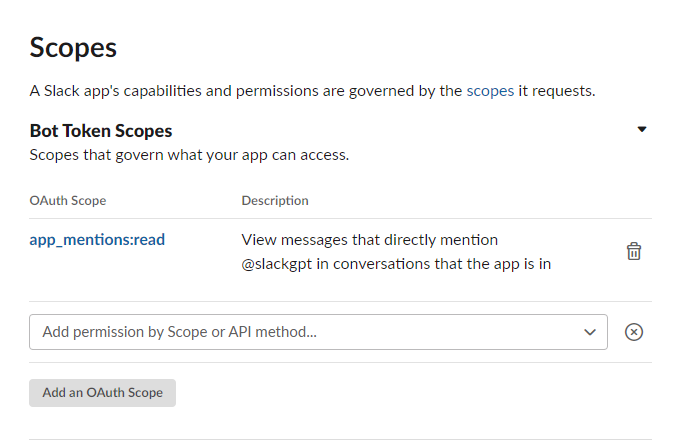
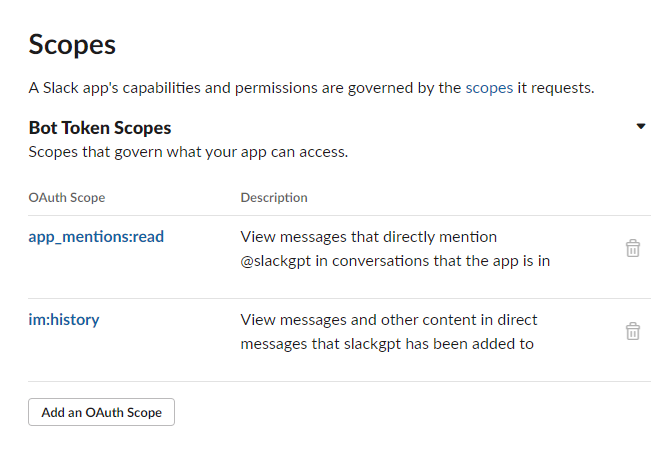
Dms (#28)
* updated config tests

* committing test files

* fixed tests

* fixed tests due to config refactor

* added some tests to middleware app mention event to cover misses

* incorporated dm capabilities

* added middleware test for message event and added codecov

* trying to integrate codecov

* updated the walk-through to include dms

diff --git a/src/slack/middleware_test.go b/src/slack/middleware_test.go
@@ -170,3 +170,135 @@ func TestMiddlewareAppMentionEvent(t *testing.T) {
 		})
 	}
 }
+
+func TestMiddlewareMessageEvent(t *testing.T) {
+	type payload struct {
+		Text string `json:"text"`
+	}
+	x := payload{
+		Text: "we made it",
+	}
+	send, err := json.Marshal(x)
+	assert.NoError(t, err)
+	type args struct {
+		event *socketmode.Event
+	}
+	type expectedResult struct {
+		e error
+	}
+	tests := []struct {
+		name string
+		arg  args
+		want expectedResult
+	}{
+		{
+			name: "nil data",
+			arg: args{
+				&socketmode.Event{
+					Type: socketmode.EventTypeEventsAPI,
+					Data: nil,
+				},
+			},
+			want: expectedResult{errors.New("miss")},
+		},
+		{
+			name: "wrong event type",
+			arg: args{
+				&socketmode.Event{
+					Type: socketmode.EventTypeEventsAPI,
+					Data: slackevents.EventsAPIEvent{
+						Type: "event_callback",
+						InnerEvent: slackevents.EventsAPIInnerEvent{
+							Type: string(slackevents.AppMention),
+						},
+					},
+					Request: &socketmode.Request{
+						Type:           "test",
+						NumConnections: 1,
+						ConnectionInfo: socketmode.ConnectionInfo{"test-app"},
+						Reason:         "test",
+						EnvelopeID:     "1",
+						Payload:        send,
+					},
+				},
+			},
+			want: expectedResult{
+				errors.New("miss"),
+			},
+		},
+		{
+			name: "good event",
+			arg: args{
+				&socketmode.Event{
+					Type: socketmode.EventTypeEventsAPI,
+					Data: slackevents.EventsAPIEvent{
+						Type: "event_callback",
+						InnerEvent: slackevents.EventsAPIInnerEvent{
+							Type: string(slackevents.Message),
+							Data: &slackevents.MessageEvent{
+								Type:    string(slackevents.Message),
+								User:    "test",
+								Text:    "Hello, test!",
+								Channel: "app-dev",
+							},
+						},
+					},
+					Request: &socketmode.Request{
+						Type:           "test",
+						NumConnections: 1,
+						ConnectionInfo: socketmode.ConnectionInfo{"test-app"},
+						Reason:         "test",
+						EnvelopeID:     "1",
+						Payload:        send,
+					},
+				},
+			},
+			want: expectedResult{
+				errors.New("miss"),
+			},
+		},
+		{
+			name: "bot event",
+			arg: args{
+				&socketmode.Event{
+					Type: socketmode.EventTypeEventsAPI,
+					Data: slackevents.EventsAPIEvent{
+						Type: "event_callback",
+						InnerEvent: slackevents.EventsAPIInnerEvent{
+							Type: string(slackevents.Message),
+							Data: &slackevents.MessageEvent{
+								Type:    string(slackevents.Message),
+								User:    "test",
+								Text:    "Hello, test!",
+								Channel: "app-dev",
+								BotID:   "123",
+							},
+						},
+					},
+					Request: &socketmode.Request{
+						Type:           "test",
+						NumConnections: 1,
+						ConnectionInfo: socketmode.ConnectionInfo{"test-app"},
+						Reason:         "test",
+						EnvelopeID:     "1",
+						Payload:        send,
+					},
+				},
+			},
+			want: expectedResult{
+				errors.New("miss"),
+			},
+		},
+	}
+
+	slackClient := slack.New("test")
+	client := socketmode.New(slackClient)
+	_, httpClient := fakeHttpClient()
+	gptClient := gpt3.NewClient("test-key", gpt3.WithHTTPClient(httpClient))
+	ctx := context.Background()
+	for _, tt := range tests {
+		t.Run(tt.name, func(t *testing.T) {
+			middlewareMessageEvent(tt.arg.event, client, gptClient, ctx)
+		})
+	}
+}

diff --git a/src/slack/middleware.go b/src/slack/middleware.go
@@ -47,13 +47,45 @@ func middlewareAppMentionEvent(evt *socketmode.Event, client *socketmode.Client,
 	question := ev.Text
 	gpt3Resp, err := chatgpt.GetStringResponse(gptClient, ctx, question)
 	if err != nil {
-		fmt.Println("Failed to get gpt3 response", err)
-		return
+		fmt.Printf("Failed to get gpt3 response: %v\n", err)
+		gpt3Resp = "I'm having some trouble communicating with our servers (my brain). Please try again in a little bit and hopefully the fuzz clears up."
 	}
-	responseText := strings.Join([]string{"Hello, here's what I found from chat-gpt:", "```", gpt3Resp, "```"}, " ")
-	_, _, err = client.Client.PostMessage(ev.Channel, slack.MsgOptionText(responseText, false))
+	_, _, err = client.Client.PostMessage(ev.Channel, slack.MsgOptionText(strings.Join([]string{"```", gpt3Resp, "```"}, ""), false))
 	if err != nil {
 		fmt.Printf("failed posting message: %v", err)
+		return
+	}
+}
+
+func middlewareMessageEvent(evt *socketmode.Event, client *socketmode.Client, gptClient gpt3.Client, ctx context.Context) {
+	log.Println("Hello from Message middleware")
+	eventsAPIEvent, ok := evt.Data.(slackevents.EventsAPIEvent)
+	// only handle non-bot-id-events
+	if !ok {
+		fmt.Printf("Ignored %+v\n", evt)
+		return
+	}
+
+	client.Ack(*evt.Request)
+	ev, ok := eventsAPIEvent.InnerEvent.Data.(*slackevents.MessageEvent)
+	if !ok {
+		fmt.Printf("Ignored %+v\n", evt)
+		return
+	}
+	if ev.BotID != "" {
+		fmt.Println("The bot will answer itself.")
+		return
+	}
+	question := ev.Text
+	gpt3Resp, err := chatgpt.GetStringResponse(gptClient, ctx, question)
+	if err != nil {
+		fmt.Printf("Failed to get gpt3 response: %v\n", err)
+		gpt3Resp = "I'm having some trouble communicating with our servers (my brain). Please try again in a little bit and hopefully the fuzz clears up."
+	}
+
+	_, _, err = client.Client.PostMessage(ev.Channel, slack.MsgOptionText(strings.Join([]string{"```", gpt3Resp, "```"}, ""), false))
+	if err != nil {
+		fmt.Printf("failed posting message: %v\n", err)
 		return
 	}
 }

diff --git a/src/chatgpt/get_response_test.go b/src/chatgpt/get_response_test.go
@@ -1,10 +1,14 @@
 package chatgpt
 
 import (
+	"bytes"
 	"context"
+	"encoding/json"
 	"fmt"
 	"github.com/PullRequestInc/go-gpt3"
 	fakes "github.com/PullRequestInc/go-gpt3/go-gpt3fakes"
+	"github.com/stretchr/testify/assert"
+	"io"
 	"net/http"
 	"testing"
 )
@@ -21,8 +25,29 @@ func fakeHttpClient() (*fakes.FakeRoundTripper, *http.Client) {
 
 func TestGetStringResponse(t *testing.T) {
 	ctx := context.Background()
-	_, httpClient := fakeHttpClient()
+	rt, httpClient := fakeHttpClient()
+
 	client := gpt3.NewClient("test-key", gpt3.WithHTTPClient(httpClient))
+	completionResponse := &gpt3.CompletionResponse{
+		ID:      "ABC",
+		Object:  "list",
+		Created: 123456789,
+		Model:   gpt3.TextDavinci003Engine,
+		Choices: []gpt3.CompletionResponseChoice{
+			gpt3.CompletionResponseChoice{
+				Text:         "why?",
+				FinishReason: "stop",
+			},
+		},
+	}
+	data, err := json.Marshal(completionResponse)
+	assert.NoError(t, err)
+	mockResponse := &http.Response{
+		StatusCode: 200,
+		Body:       io.NopCloser(bytes.NewBuffer(data)),
+	}
+	rt.RoundTripReturns(mockResponse, nil)
+
 	text, err := GetStringResponse(client, ctx, "what?")
 	fmt.Println(text)
 	fmt.Println(err)

diff --git a/src/slack/event_handler.go b/src/slack/event_handler.go
@@ -27,12 +27,16 @@ func EventHandler(appToken string, botToken string, gptClient gpt3.Client, ctx c
 		socketmode.OptionLog(log.New(os.Stdout, "socketmode: ", log.Ldate|log.Ltime|log.Lshortfile)),
 	)
 	socketmodeHandler := socketmode.NewSocketmodeHandler(client)
+	// should be a primary middleware handler, and these handle more granular events
 	socketmodeHandler.Handle(socketmode.EventTypeConnecting, middlewareConnecting)
 	socketmodeHandler.Handle(socketmode.EventTypeConnectionError, middlewareConnectionError)
 	socketmodeHandler.Handle(socketmode.EventTypeConnected, middlewareConnected)
 	socketmodeHandler.Handle(socketmode.EventTypeHello, middlewareHello)
 	socketmodeHandler.HandleEvents(slackevents.AppMention, func(evt *socketmode.Event, client *socketmode.Client) {
 		middlewareAppMentionEvent(evt, client, gptClient, ctx)
+	})
+	socketmodeHandler.HandleEvents(slackevents.Message, func(evt *socketmode.Event, client *socketmode.Client) {
+		middlewareMessageEvent(evt, client, gptClient, ctx)
 	})
 	return socketmodeHandler.RunEventLoop()
 }

diff --git a/src/chatgpt/get_response.go b/src/chatgpt/get_response.go
@@ -3,9 +3,11 @@ package chatgpt
 import (
 	"context"
 	"github.com/PullRequestInc/go-gpt3"
+	"strings"
 )
 
 func GetStringResponse(client gpt3.Client, ctx context.Context, question string) (string, error) {
+
 	resp, err := client.CompletionWithEngine(ctx, gpt3.TextDavinci003Engine, gpt3.CompletionRequest{
 		Prompt: []string{
 			question,
@@ -16,6 +18,6 @@ func GetStringResponse(client gpt3.Client, ctx context.Context, question string)
 	if err != nil {
 		return "", err
 	}
-	response := resp.Choices[0].Text
-	return response[2:], nil
+	responseText := resp.Choices[0].Text
+	return strings.TrimPrefix(responseText, "\n"), nil
 }

diff --git a/example/walkthrough.md b/example/walkthrough.md
@@ -40,53 +40,61 @@ Once you have this key, add it to your config file as:
 
 ![bot user event](./add_bot_user_event.png)
 
-8. Select "app_mention". This will enable your bot to access mentions of your bot. Your bot events section should now look like this:
+8. Select "app_mention" and "message.im". This will enable your bot to access mentions of your bot, and set your bot up to view direct message events. Your bot events section should now look like this:
 
-![app mention event](./app_mention_bot_event.png)
+![app mention event](./app_mention_message_bot_event.png)
 
 9. Then, we must save changes - click the "Save Changes" button on the bottom right.
 10. On the left sidebar under "Features", navigate to "OAuth & Permissions".
-11. Scroll down the page to "Scopes", where you should already have an "app_mentions:read" scope applied under "Bot Token Scopes".
+11. Scroll down the page to "Scopes", where you should already have "app_mentions:read" and "im:history" scope applied under "Bot Token Scopes" from setting up the events.
 
 ![oauth pre](./oauth_scope_pre.png)
 
-12. We need to add "chat:write", as a scope - so select that and your new Bot Token Scopes should look like this:
+12. We need to add "chat:write", "im:read", "im:write",  as a scope - so select that and your new Bot Token Scopes should look like this:
 
 ![oauth post](./oauth_scope_post.png)
 
-13. Finally, we need to collect our 2 tokens. Scroll up the OAuth page, and click "Install to Workspace". If you are an admin, this will happen automatically. If not, it will send a request.
+13. **Skip to step 15 if you do not want users to be able to dm your app.** Next, we need to allow out App to send and receive direct messages. On the left side under "Features", click "App Home". Scroll down to see the "Messages Tab":
+
+![messages pre](./messages_pre.png)
+
+14. We need to click this and check the box under that tab to allow users to send direct messages to our App. 
+
+![messages post](./messages_post.png)
+
+15. Finally, we need to collect our 2 tokens. Scroll up the OAuth page, and click "Install to Workspace". If you are an admin, this will happen automatically. If not, it will send a request.
 
 ![admin view](./admin_view.png)
 
-14. Once it is installed, you will be redirected back to OAuth, where you will see a bot token.
-15. Copy that token starting with `xoxb-` to your config file under the key: ```SLACK_BOT_TOKEN=<bot token>```
-16. Finally, go back to "Basic Information" on the left sidebar and scroll down past "App Credentials" to "App-Level Tokens".
+16. Once it is installed, you will be redirected back to OAuth, where you will see a bot token.
+17. Copy that token starting with `xoxb-` to your config file under the key: ```SLACK_BOT_TOKEN=<bot token>```
+18. Finally, go back to "Basic Information" on the left sidebar and scroll down past "App Credentials" to "App-Level Tokens".
 
 ![app token](./app_level_tokens.png)
 
-17. Create one by clicking "Generate Token and Scopes". **Note**: Unlike your bot token, you will not be able to see this text again after you leave, so be sure to copy right away!
-18. A pop-up will ask for a token name and a scope. Name your token, and add the scope "connections:write".
+19. Create one by clicking "Generate Token and Scopes". **Note**: Unlike your bot token, you will not be able to see this text again after you leave, so be sure to copy right away!
+20. A pop-up will ask for a token name and a scope. Name your token, and add the scope "connections:write".
 
 ![app token fields](./app_tokens_values.png)
 
-19. Click "Generate", and copy the token starting with `xapp-` to your config file under the key: ```SLACK_APP_TOKEN=```.
+21. Click "Generate", and copy the token starting with `xapp-` to your config file under the key: ```SLACK_APP_TOKEN=```.
 
-20. This is it! Once you've made it here, you should have a config file with the following key=value fields:
+22. This is it! Once you've made it here, you should have a config file with the following key=value fields:
 ```
 CGPT_API_KEY=<value>
 SLACK_BOT_TOKEN=xoxb-...
 SLACK_APP_TOKEN=xapp-...
 ```
 
-21. Now go to your slack workspace, and either add the app to the existing channel, or create a new channel to add the app to.
+23. Now go to your slack workspace, and either add the app to the existing channel, or create a new channel to add the app to.
 
 ![add channel](./slack-channel.png)
 
-22. Add people, or you can skip, but we need to add the app. We can do this by directly mentioning the app's handle. The app's handle will be what you named the app in the beginning. Mine was `slackgpt`
+24. Add people, or you can skip, but we need to add the app. We can do this by directly mentioning the app's handle. The app's handle will be what you named the app in the beginning. Mine was `slackgpt`
 
 ![add bot to channel](./invite_bot_to_channel.png)
 
-23. Now that they are added to the channel, and you have your config with your tokens, build and run the app as seen in the Quick Start section at the top:
+25. Now that they are added to the channel, and you have your config with your tokens, build and run the app as seen in the Quick Start section at the top:
 
 ```
 go build -o ./bin/slackgpt
@@ -101,6 +109,7 @@ api: 2023/02/02 20:14:28 socket_mode.go:30: ...
 ...
 ```
 
-24. Try out in slack:
+26. Try out in slack:
 
 ![example](./example_chat.png)
+![example_dm](./example_dm.png)

diff --git a/README.md b/README.md
@@ -6,6 +6,9 @@
     <a href="https://github.com/drkennetz/go-slack-chat-gpt3">
         <img alt="GitHub Workflow Status" src="https://img.shields.io/github/actions/workflow/status/drkennetz/go-slack-chat-gpt3/ci.yml">
     </a>
+    <a href="https://codecov.io/github/drkennetz/go-slack-chat-gpt3" > 
+        <img src="https://codecov.io/github/drkennetz/go-slack-chat-gpt3/branch/main/graph/badge.svg?token=8IHKB8J1AN"/> 
+    </a>
     <a href="https://github.com/drkennetz/go-slack-chat-gpt3/issues">
         <img src="https://img.shields.io/github/issues/drkennetz/go-slack-chat-gpt3" alt="Issues">
    </a>
